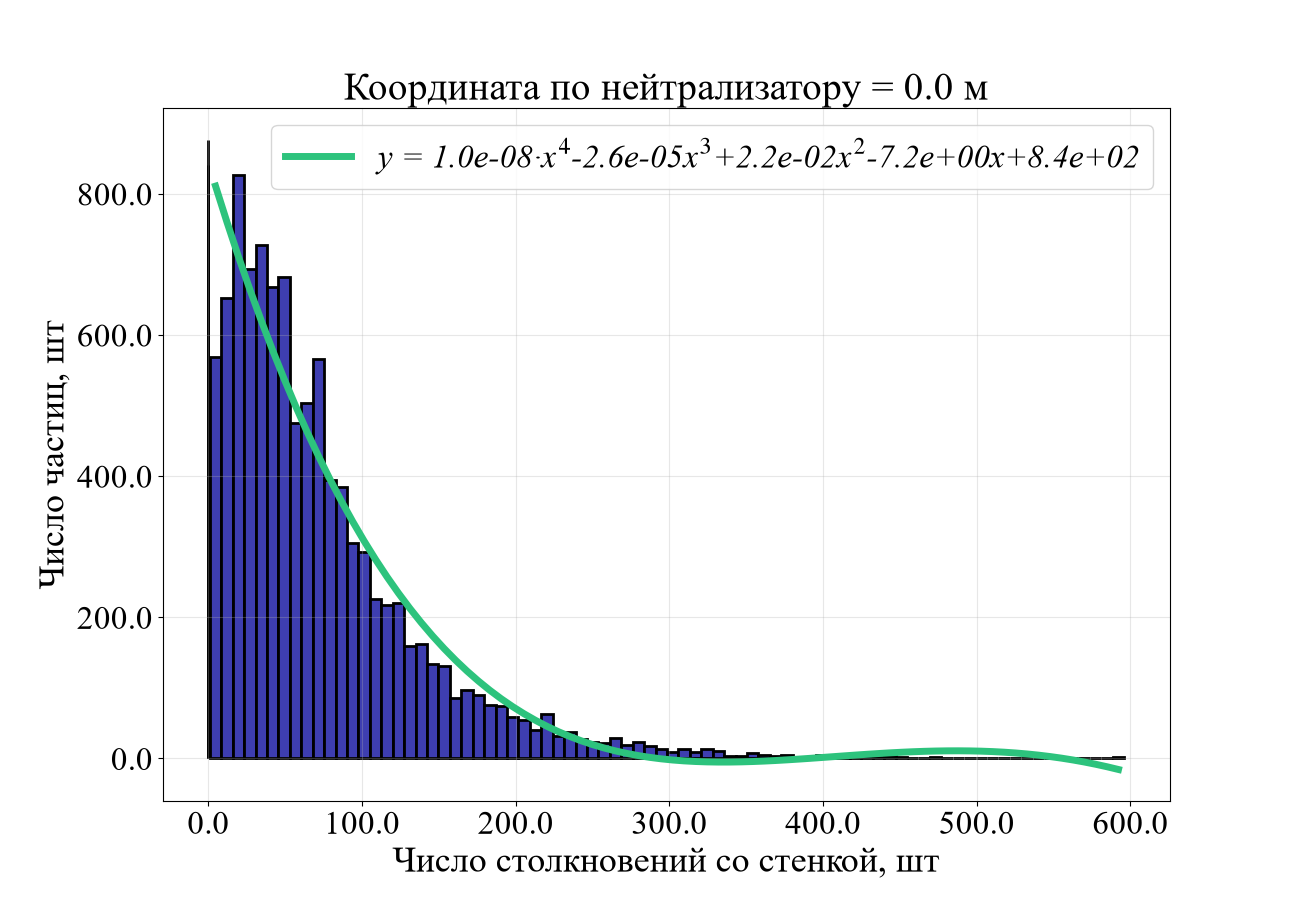
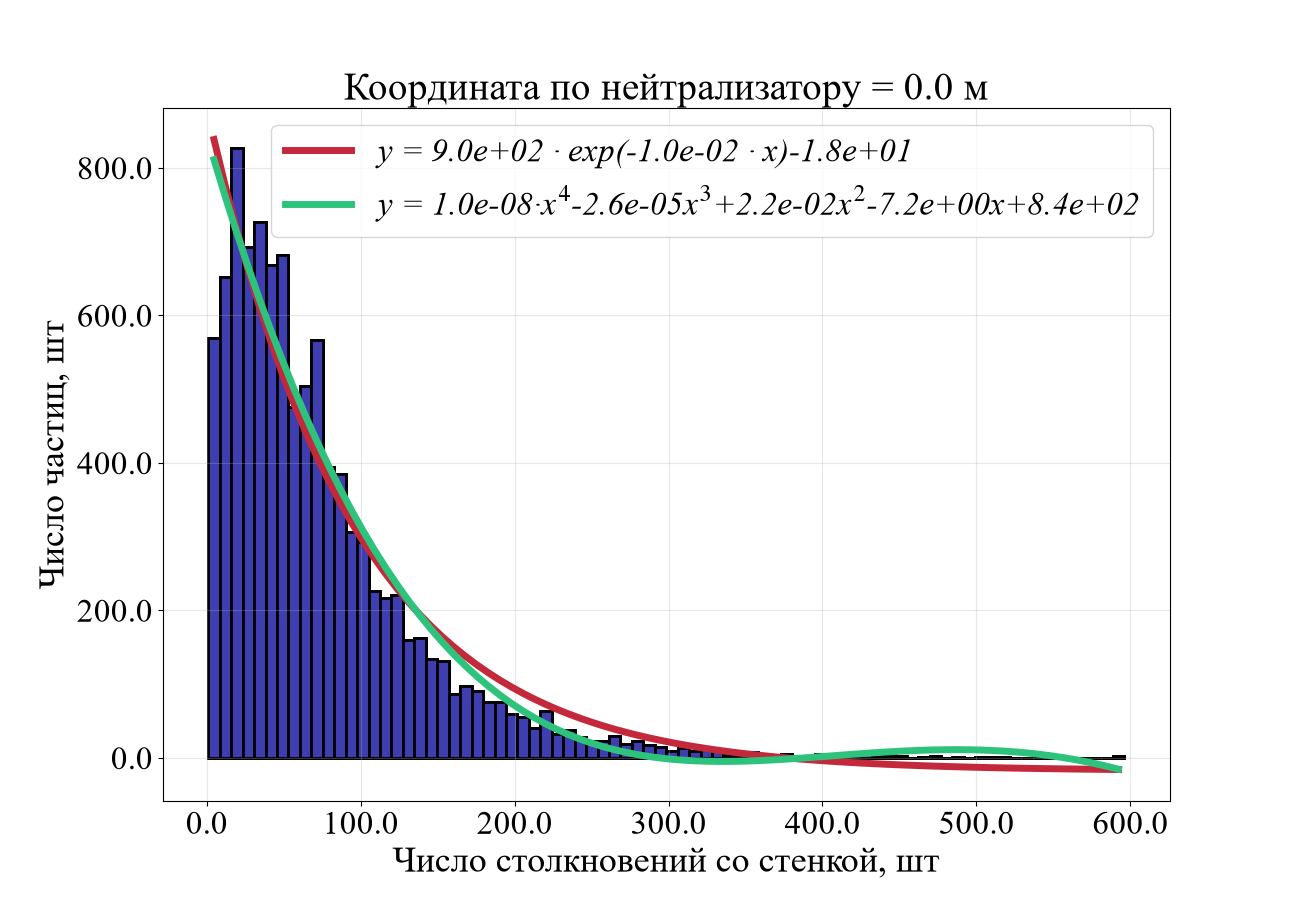
Plotted figures

diff --git a/plot_section_data.py b/plot_section_data.py
@@ -312,12 +312,12 @@ def main():
             y_fit_poly = np.polyval(coeffs, bin_centers)
             
             # Строим гистограмму
-            axes[f'ax_{graph}'].hist(s['times'], bins=BINS, color = hist_color, alpha = 1,
+            axes[f'ax_{graph}'].hist(s['collisions'], bins=BINS, color = hist_color, alpha = 1,
                         edgecolor='black', linewidth = 2)
             # Строим линию
-            # axes[f'ax_{graph}'].plot(bin_centers, y_fit_exp, color = line_color_exp, linewidth = 5, label = f'y = {a:.1e} · exp(-{b:.1e} · x)'
-            #                                                                                             f"{'+' if c > 0 else ''}"
-            #                                                                                             f'{c:.1e}')
+            axes[f'ax_{graph}'].plot(bin_centers, y_fit_exp, color = line_color_exp, linewidth = 5, label = f'y = {a:.1e} · exp(-{b:.1e} · x)'
+                                                                                                        f"{'+' if c > 0 else ''}"
+                                                                                                        f'{c:.1e}')
 
             axes[f'ax_{graph}'].plot(bin_centers, y_fit_poly, color = line_color_poly, linewidth = 5, label = f'y = {coeffs[0]:.1e}·' r'$x^4$'
                                                                                                                 f"{'+' if coeffs[1] > 0 else ''}" f'{coeffs[1]:.1e}' r'$x^3$'
@@ -363,7 +363,7 @@ def main():
             axes[f'ax_{graph}'].plot(l_all, mean_time_all*1e3, linewidth = 3, color=time_color)
             
             axes[f'ax_{graph}'].set_ylabel('Среднее время жизни, мс', fontdict = fontdict_labels_left_y)
-            axes[f'ax_{graph}'].set_ylim([0, 0.5])
+            axes[f'ax_{graph}'].set_ylim([0, 1])
             yticks = axes[f'ax_{graph}'].get_yticks()
             axes[f'ax_{graph}'].set_yticklabels([f'{t:.1f}' for t in yticks], fontdict = fontdict_ticks_left_y)
 
@@ -381,11 +381,11 @@ def main():
             yticks = ax2.get_yticks()
             ax2.set_yticklabels([f'{t:.0f}' for t in yticks], fontdict = fontdict_ticks_right_y)
                         
-            figures[f'fig_{graph}'].show()
-
-
-            
+            figures[f'fig_{graph}'].show()            
             input()
+            
+            print(f'Среднее время жизни по всему нейтрализатору: {mean_time_all.mean()*1e3} мс')
+            print(f'Среднее время жизни по всему нейтрализатору: {mean_coll_all.mean()} штук')
 
     
         
